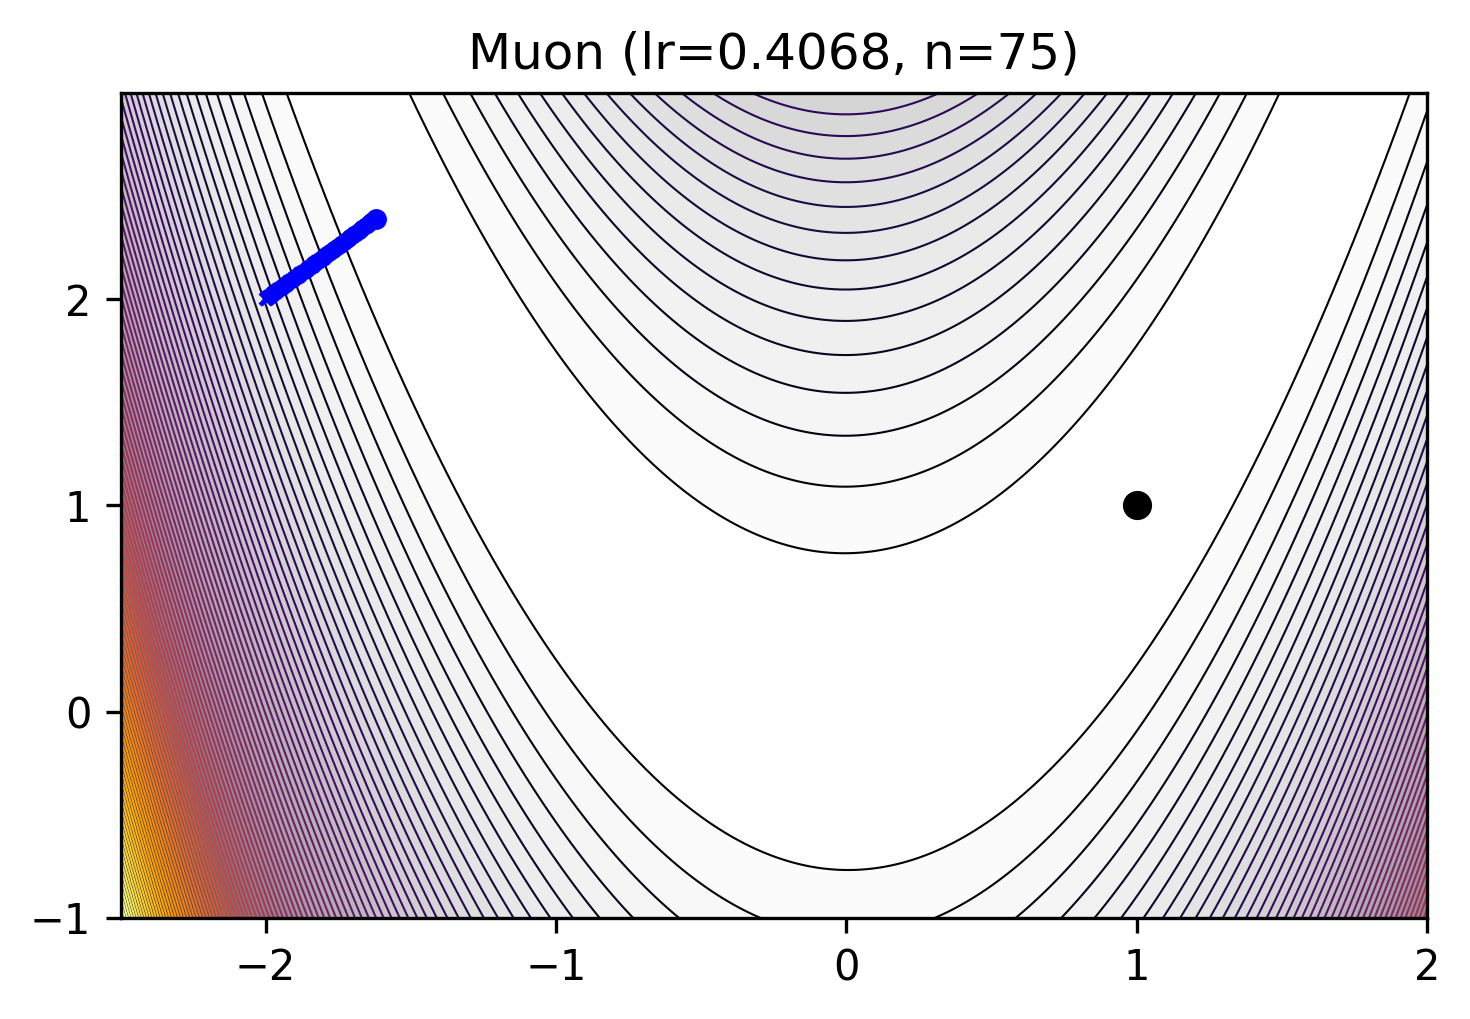
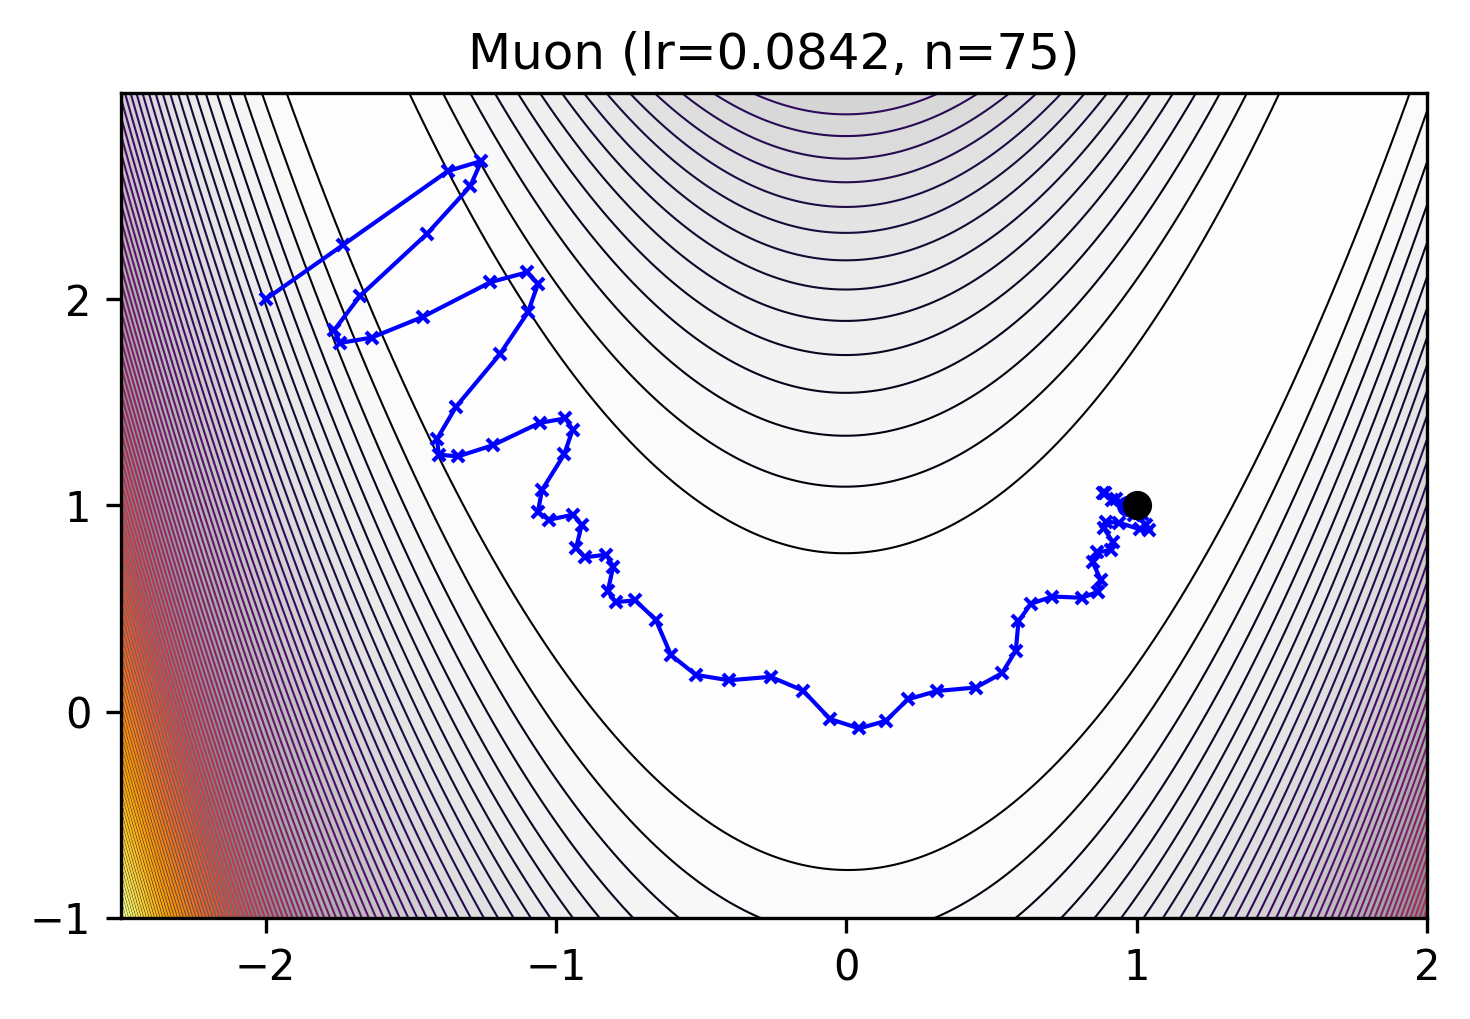
optim: muon alternative updated

diff --git a/mlx_optimizers/muon.py b/mlx_optimizers/muon.py
@@ -1,7 +1,7 @@
-from typing import Callable, Union
+from typing import Callable, Type, Union
 
 import mlx.core as mx
-from mlx.optimizers import Adam, Optimizer
+from mlx.optimizers import AdamW, Optimizer
 
 
 def zeropower_via_svd(G, steps=None) -> mx.array:
@@ -40,7 +40,7 @@ class Muon(Optimizer):
         weight_decay: float = 0.0,
         backend: str = "newtonschulz5",
         backend_steps: int = 5,
-        alternate_optimizer: Optimizer = Adam(1e-3),
+        alternate_optimizer: Type[Optimizer] = AdamW,
     ):
         super().__init__()
         self._maybe_schedule("learning_rate", learning_rate)
@@ -49,7 +49,7 @@ class Muon(Optimizer):
         self.weight_decay = weight_decay
         self.backend = backend
         self.backend_steps = backend_steps
-        self.alternate_optimizer = alternate_optimizer
+        self.alternate_optimizer = alternate_optimizer(learning_rate)
 
         try:
             self.orthogonalize = {
@@ -60,22 +60,24 @@ class Muon(Optimizer):
             raise ValueError(f"Unknown backend: {backend}")
 
     def init_single(self, parameter: mx.array, state: dict):
-        if parameter.ndim != 2:
+        if parameter.ndim != 2 or sum(parameter.shape) > 9999:
+            state["use_muon"] = False
             return self.alternate_optimizer.init_single(parameter, state)
-        state["muon_v"] = mx.zeros_like(parameter)
+        state["use_muon"] = True
+        state["muon_m"] = mx.zeros_like(parameter)
 
     def apply_single(self, gradient: mx.array, parameter: mx.array, state: dict):
         """Apply Muon optimization update with Newton-Schulz orthogonalization."""
 
-        if parameter.ndim != 2:  # TODO: find a better solution to flat parameters
+        if not state["use_muon"]:
             return self.alternate_optimizer.apply_single(gradient, parameter, state)
 
         if self.weight_decay != 0:
             gradient += self.weight_decay * parameter
 
-        buf = state["muon_v"]
+        buf = state["muon_m"]
         buf = self.momentum * buf + gradient
-        state["muon_v"] = buf
+        state["muon_m"] = buf
 
         gradient = (gradient + self.momentum * buf) if self.nesterov else buf
         gradient = self.orthogonalize(gradient, steps=self.backend_steps)

diff --git a/examples/rosenbrock.py b/examples/rosenbrock.py
@@ -118,7 +118,7 @@ if __name__ == "__main__":
         (optim.MADGRAD, 0, 0.5, {}),
         (optim.ADOPT, 0, 0.25, {}),
         (optim.Lamb, 0, 0.25, {}),
-        (optim.Muon, 0, 0.5, {}),
+        (optim.Muon, 0, 0.2, {}),
     ]
     execute_experiments(
         optimizers, objective_rosenbrock, rosenbrock, plot_rosenbrock, ROSENBROCK_INITIAL
